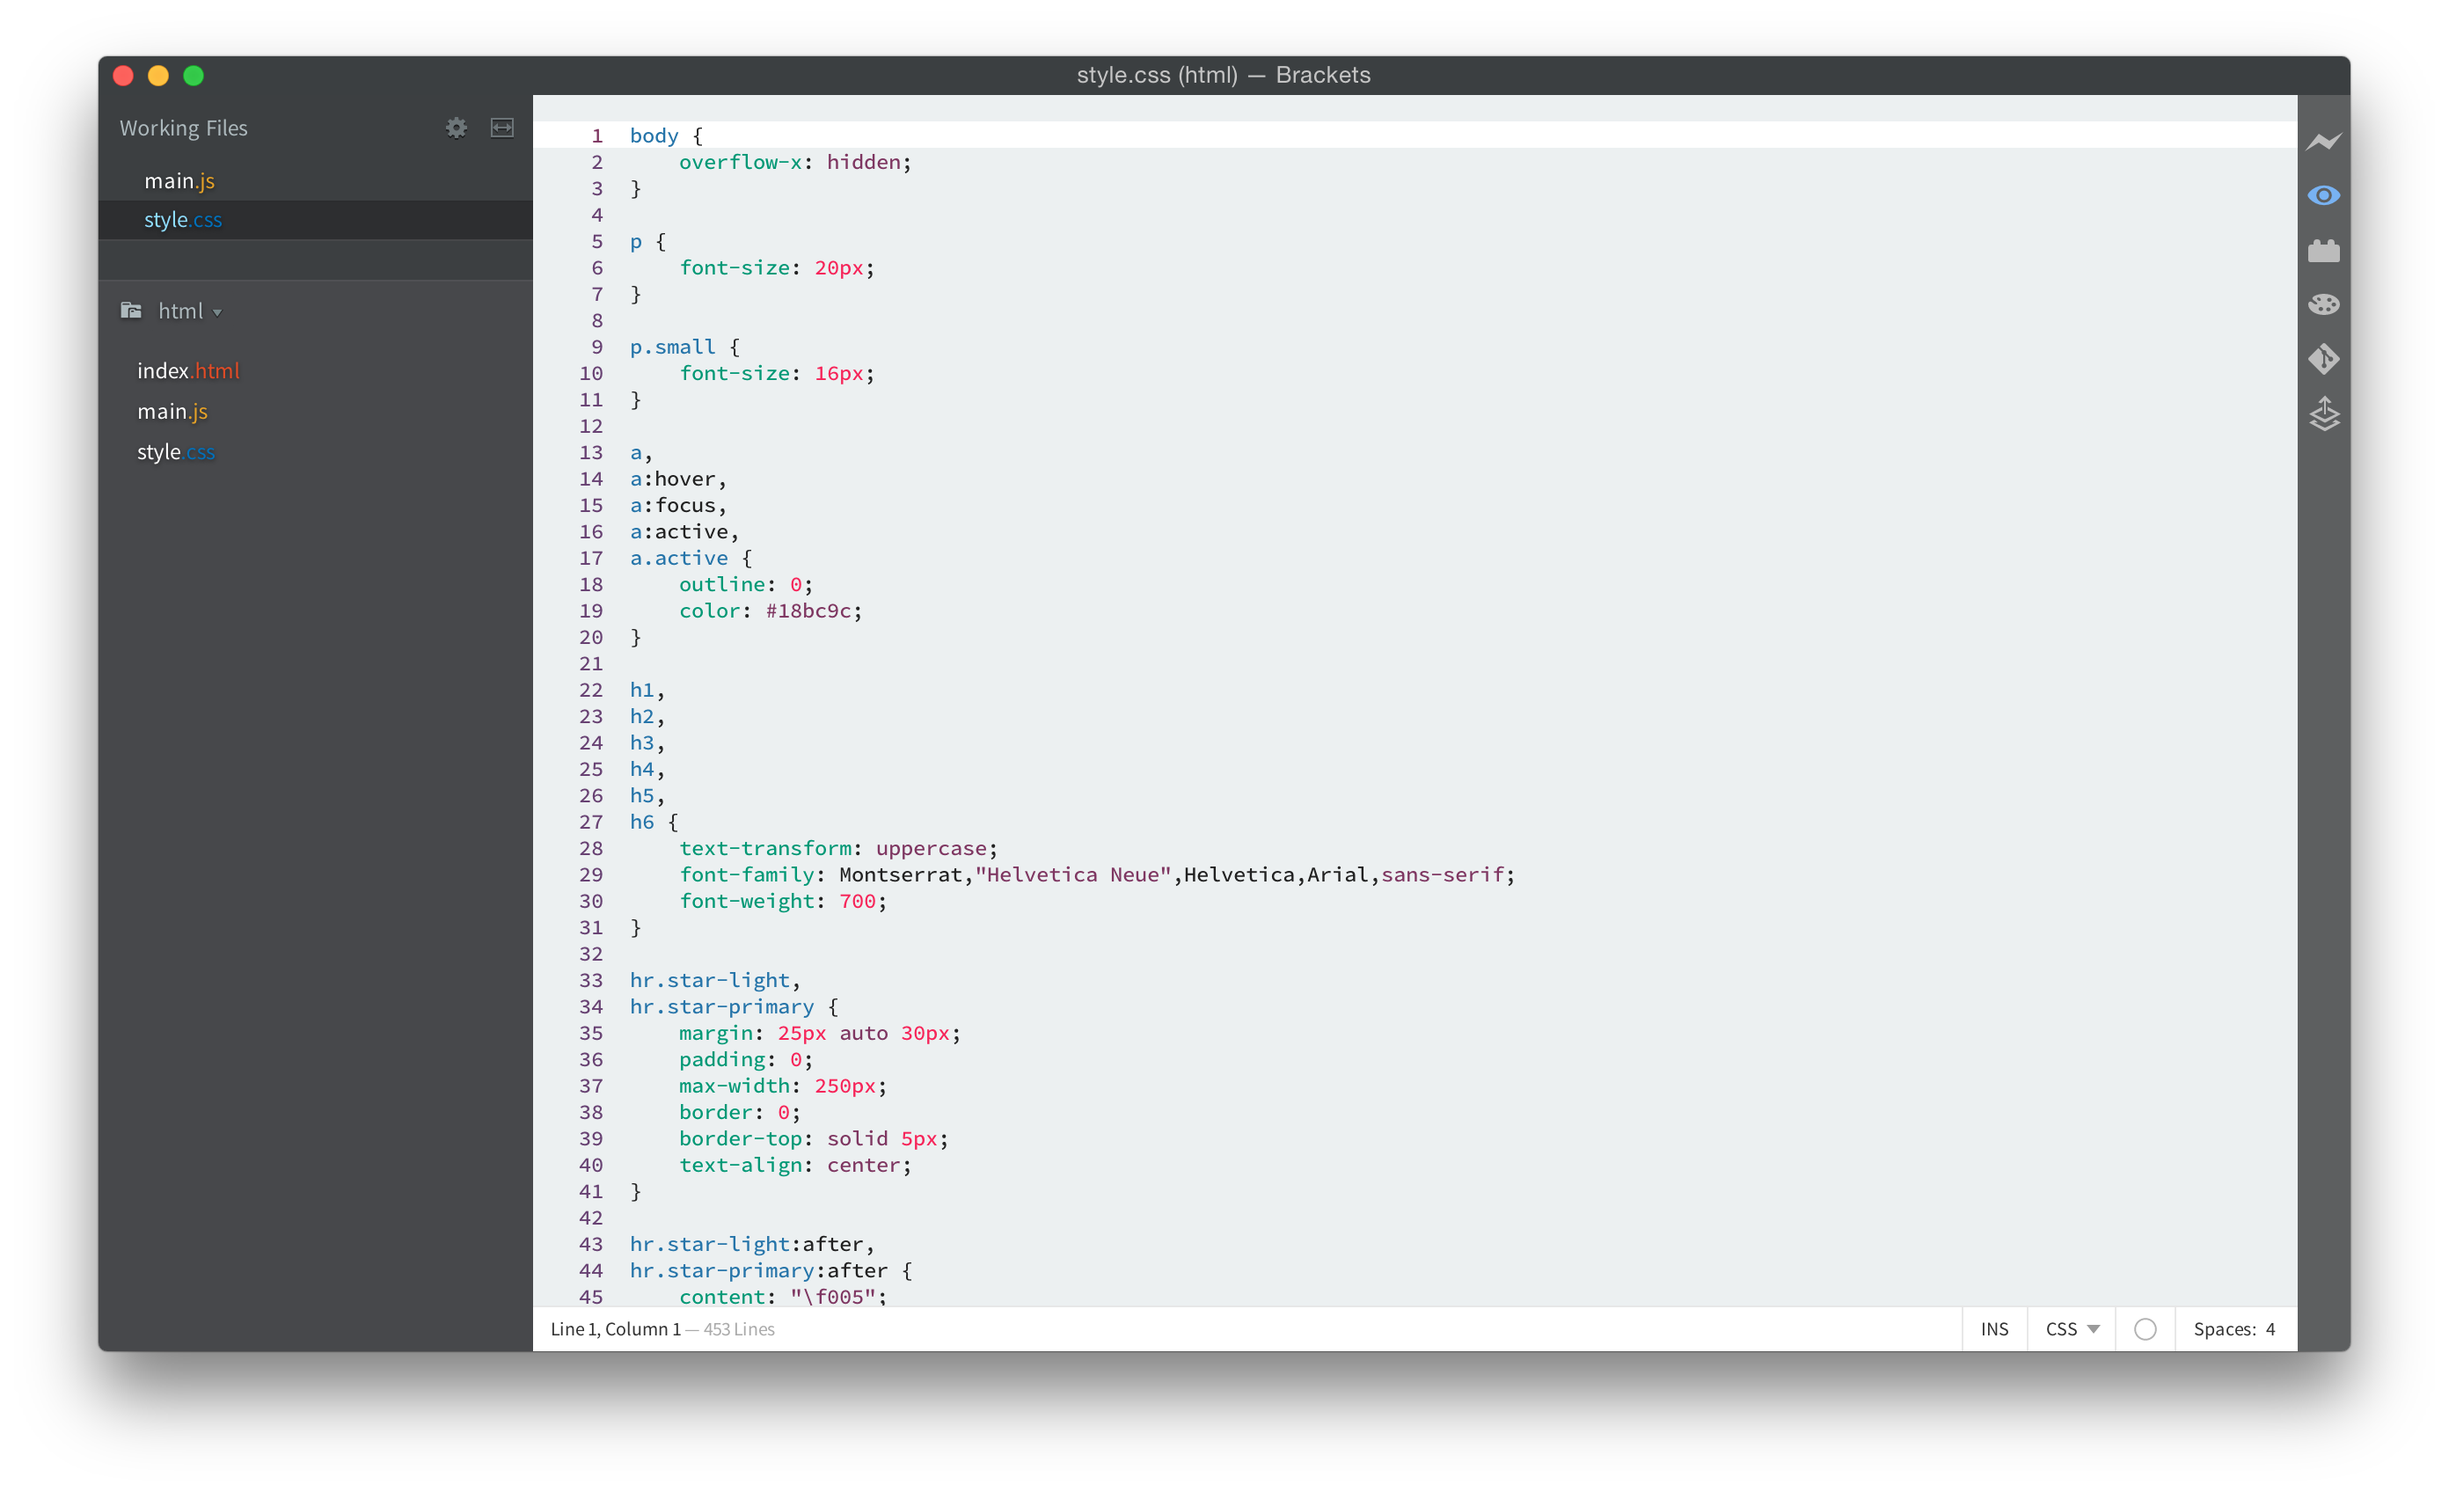
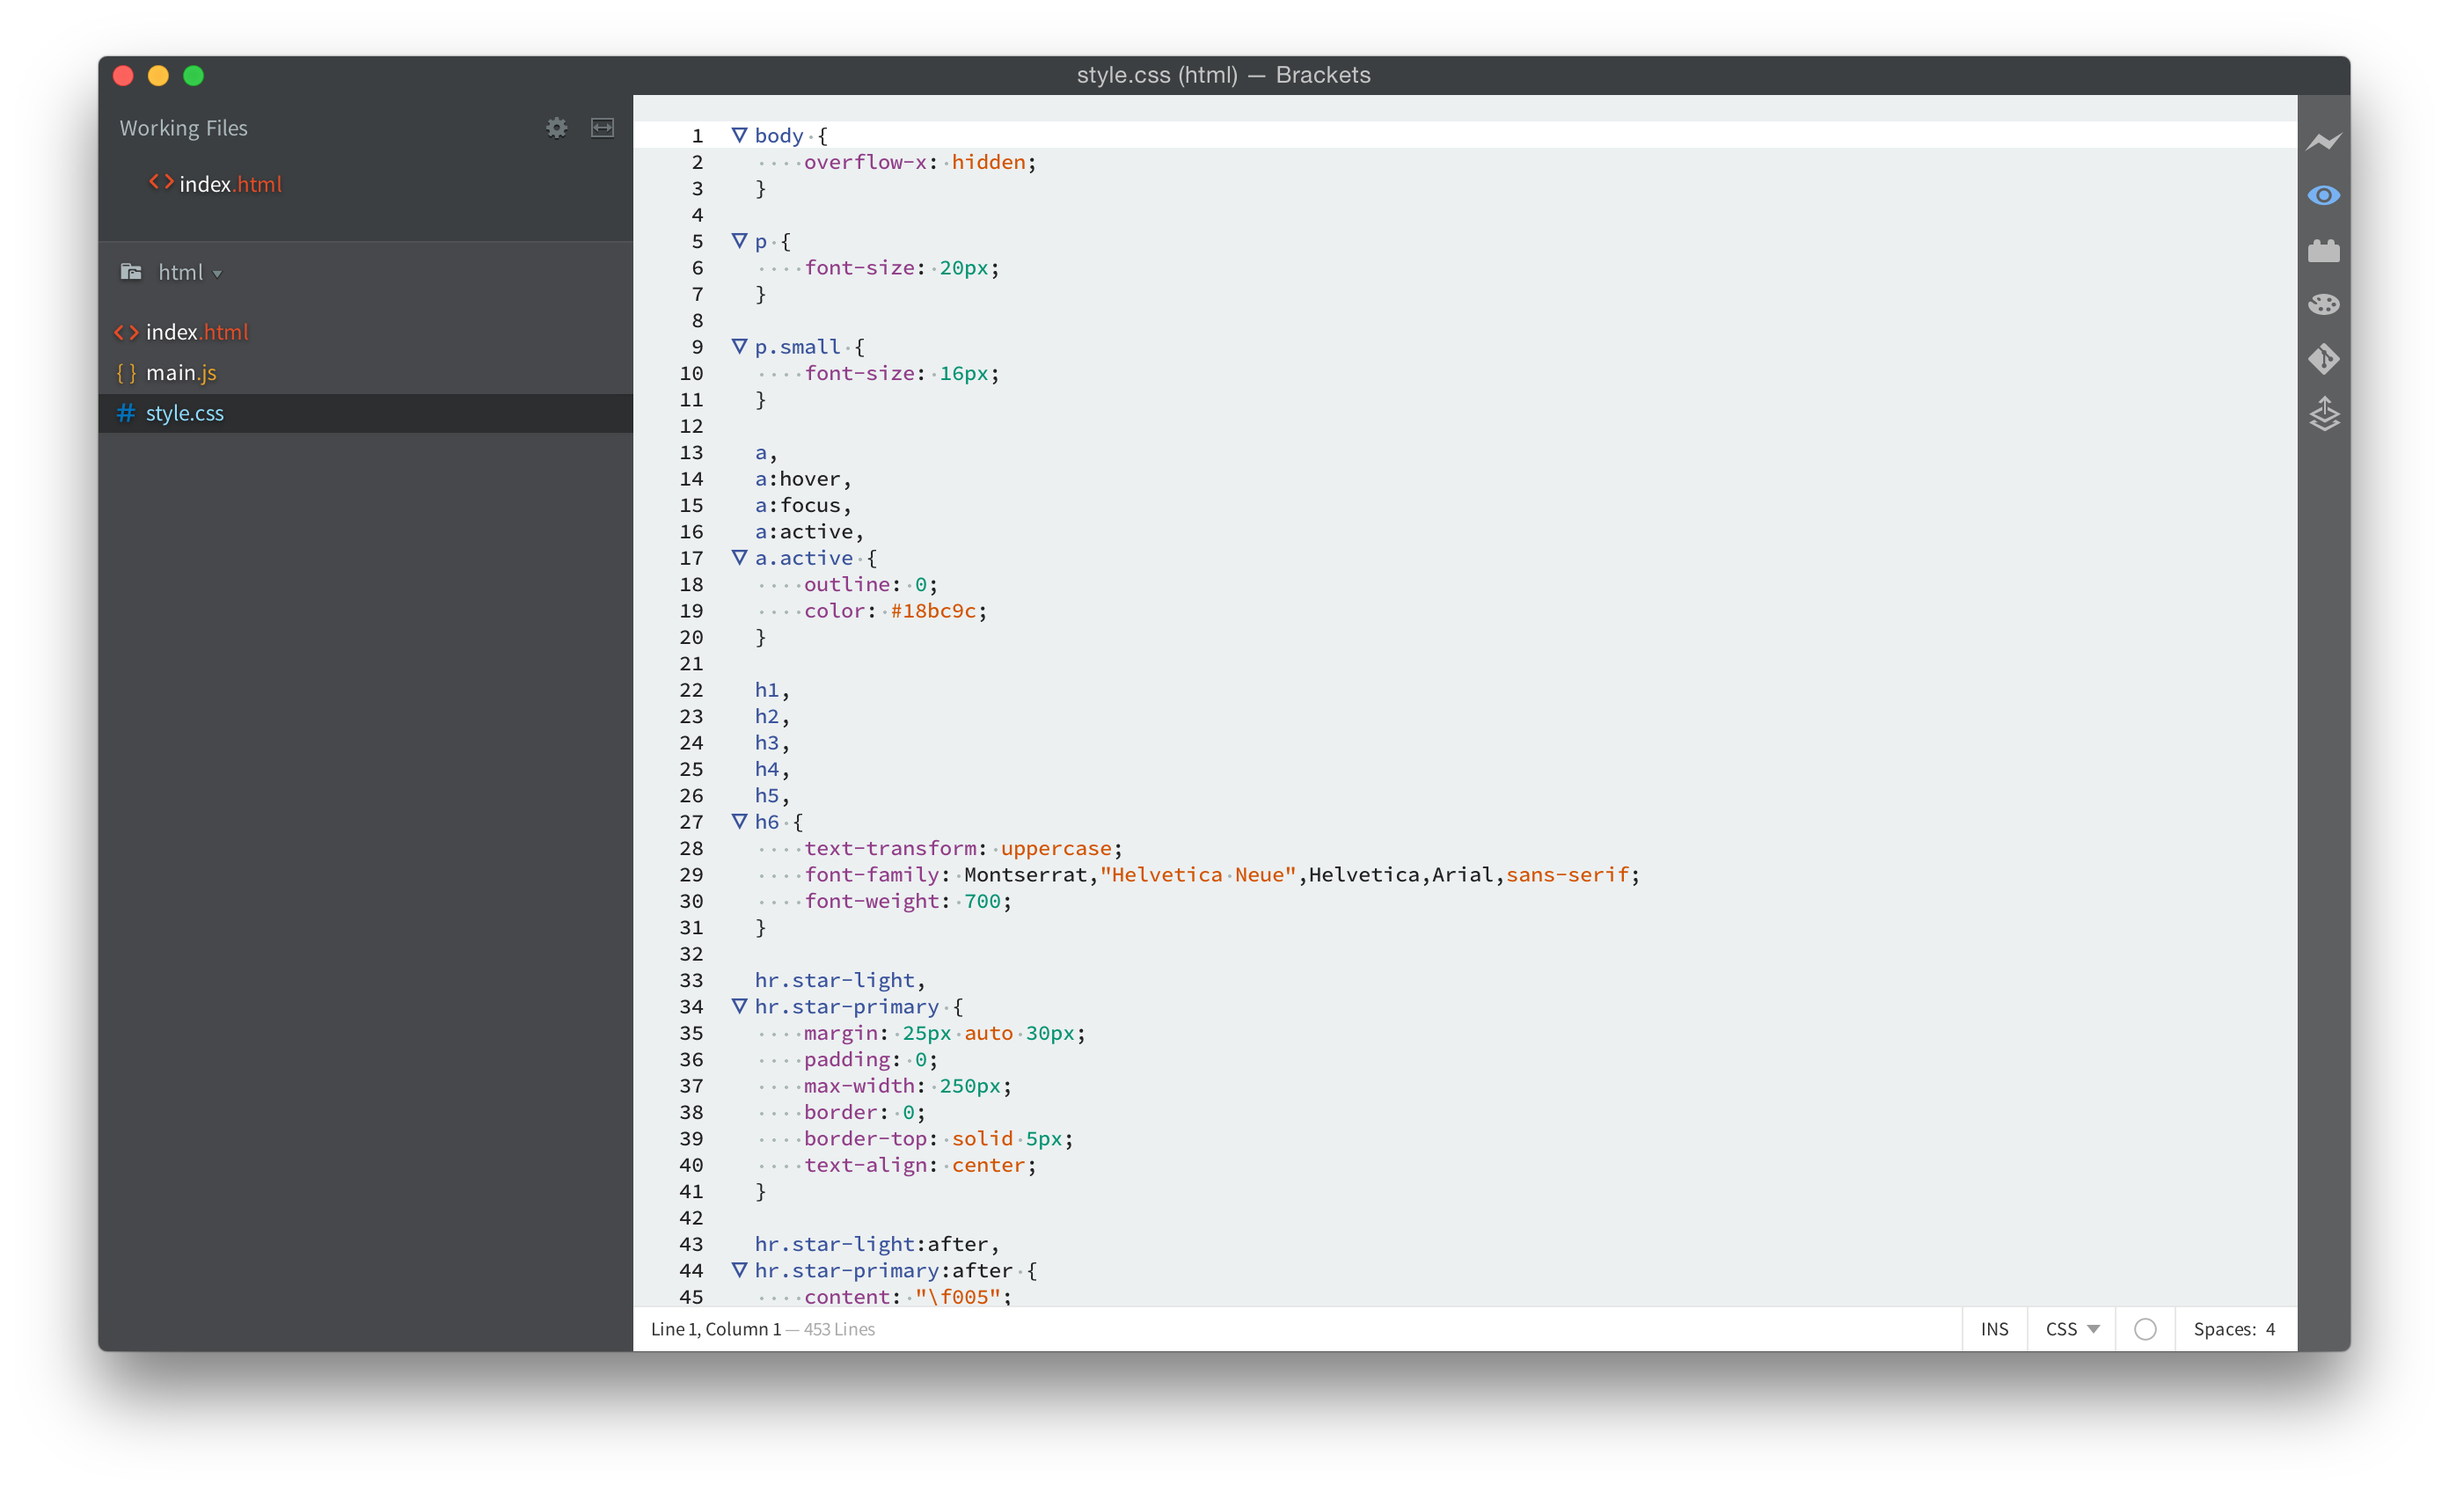
change colors. add CHANGELOG. re-org structure of project

Changed region(s): [[0.0312, 0.0625, 0.625, 0.9062], [0.0625, 0.0938, 0.0938, 0.1562]]

diff --git a/theme.less b/theme.less
@@ -27,23 +27,23 @@
 .CodeMirror-focused .CodeMirror-activeline {
     .CodeMirror-gutter-elt {
         background: @white;
-        color: #7E3661;
+        color: @foreground;
     }
     .inline-widget .CodeMirror-gutter-elt {
-        color: #767676;    
+        color: #767676;
     }
 }
 
-.cm-atom, .cm-string, .cm-string-2, .cm-hr {color: #7E3661;}
-.cm-number, .cm-attribute, .cm-plus {color: #F62459  ;}
-.cm-def, .cm-property {color: #019875 ;}
+.cm-atom, .cm-string, .cm-string-2, .cm-hr {color: #D35400;}
+.cm-number, .cm-attribute, .cm-plus {color: #049372;}
+.cm-def, .cm-property {color: #913D88;}
 .cm-variable, .cm-variable-2, .cm-variable-3, .cm-operator, .cm-meta, .cm-bracket {color: @foreground;}
-.cm-comment {color: #95a5a6;} 
+.cm-comment {color: #6C7A89;}
 .cm-error, .cm-minus {color: #dc322f;}
 .cm-header {color: #446CB3;}
-.cm-link {color: #b77fdb; text-decoration: none;}
+.cm-link {color: #D35400; text-decoration: none;}
 .cm-rangeinfo {color: #6c71c4;}
-.cm-keyword, .cm-qualifier, .cm-builtin, .cm-tag, .cm-quote {color: #2574A9;}
+.cm-keyword, .cm-qualifier, .cm-builtin, .cm-tag, .cm-quote {color: #3A539B;}
 
 /* Extra CSS */
 
@@ -55,7 +55,7 @@
 }
 
 .CodeMirror-cursor {
-    border-left: 1px solid #F62459  !important;
+    border-left: 1px solid #212121  !important;
 }
 
 .CodeMirror-gutters {
@@ -64,20 +64,20 @@
 }
 
 .CodeMirror-linenumber {
-    color: #674172;
+    color: #212121;
 }
 
 .CodeMirror .CodeMirror-selected {
-    background: #333f48;
+    background: @white;
 }
 .CodeMirror-focused .CodeMirror-selected {
-    background: #FDE3A7;
+    background: @white;
 }
 
 .CodeMirror-matchingbracket, .CodeMirror-matchingtag {
     /* Ensure visibility against gray inline editor background */
-    background-color: #D2D7D3;
-    color: #2574A9 !important;
+    background-color: #67809F;
+    color: @background !important;
 }
 
 .CodeMirror-overwrite .CodeMirror-cursor {
@@ -95,4 +95,56 @@
 
 .view-pane .image-view {
     color: @foreground;
+}
+
+
+/**
+ * Extensions
+ * ==========
+ */
+
+/* Show Whitespace (https://github.com/DennisKehrig/brackets-show-whitespace)*/
+.CodeMirror .cm-dk-whitespace-space::before,
+.CodeMirror .cm-dk-whitespace-tab::before,
+.CodeMirror .cm-dk-whitespace-leading-space::before,
+.CodeMirror .cm-dk-whitespace-leading-tab::before,
+.CodeMirror .cm-dk-whitespace-trailing-space::before,
+.CodeMirror .cm-dk-whitespace-trailing-tab::before {
+    background-color: #ABB7B7 !important;
+}
+
+/* Code Folding (https://github.com/thehogfather/brackets-code-folding)*/
+.CodeMirror-foldgutter-open:after {
+    content: "\25BD";
+    font-size: 1.5em;
+    color: #3A539B;
+}
+
+.CodeMirror-foldgutter-folded:after {
+    content: "\25B7";
+    background-color: transparent !important;
+    font-size: 1.5em;
+    color: #E26A6A !important;
+}
+
+.CodeMirror-foldgutter-folded {
+    padding: 0;
+}
+
+.CodeMirror-foldgutter-open {
+    padding-top: 1px;
+}
+
+.CodeMirror-foldmarker {
+    display: inline-block;
+    border-radius: 0.25em;
+    padding: 0 2px;
+    border: 0px;
+    font-size: .7em;
+    color: @white !important;
+    background-color: #E26A6A;
+    &::after {
+        content: '\2022\2022\2022';
+        position: relative;
+    }
 }

diff --git a/README.md b/README.md
@@ -1,24 +1,32 @@
-#Brackets Theme: Flat Attack
+#Brackets Theme: Flat Attack Light
 
 Light theme using flat colors for Brackets
 
-### HTML
-![HTML Screenshot](https://github.com/ostranme/flat-attack/blob/master/screenshots/html.png)
+###HTML
+![HTML Screenshot](https://github.com/ostranme/flat-attack-light/blob/master/screenshots/html.png)
 
-### CSS
-![CSS Screenshot](https://github.com/ostranme/flat-attack/blob/master/screenshots/css.png)
+###CSS
+![CSS Screenshot](https://github.com/ostranme/flat-attack-light/blob/master/screenshots/css.png)
 
-### JS
-![JS Screenshot](https://github.com/ostranme/flat-attack/blob/master/screenshots/js.png)
+###JS
+![JS Screenshot](https://github.com/ostranme/flat-attack-light/blob/master/screenshots/js.png)
 
 ###Installation
 ---
+**This extension requires Brackets 1.0.0 or newer**
 
 1. Open Brackets
 2. Open the Extension Manager
 3. Switch to "Themes" tab
-4. Search for "Flat Attack"
+4. Search for "Flat Attack Light"
 5. Click "Install"
+
+###Extension Support
+---
+- [Show Whitespace](https://github.com/DennisKehrig/brackets-show-whitespace)
+- [Code folding](https://github.com/thehogfather/brackets-code-folding)
+
+Feel free to open an issue if you want more extension support
 
 ###License
 ---

diff --git a/CHANGELOG.md b/CHANGELOG.md
@@ -1,0 +1,13 @@
+CHANGELOG
+=========
+
+##1.0.1
+- [NEW] Add support for white-space (https://github.com/DennisKehrig/brackets-show-whitespace)
+- [NEW] Add support for code-folding (https://github.com/thehogfather/brackets-code-folding)
+- [NEW] Add CHANGELOG
+- [CHANGE] Update flat colors
+- [CHANGE] Require Brackets 1.0.0 or higher
+- [DOCS] Update README
+
+##1.0.0
+- [NEW] Initital Release
